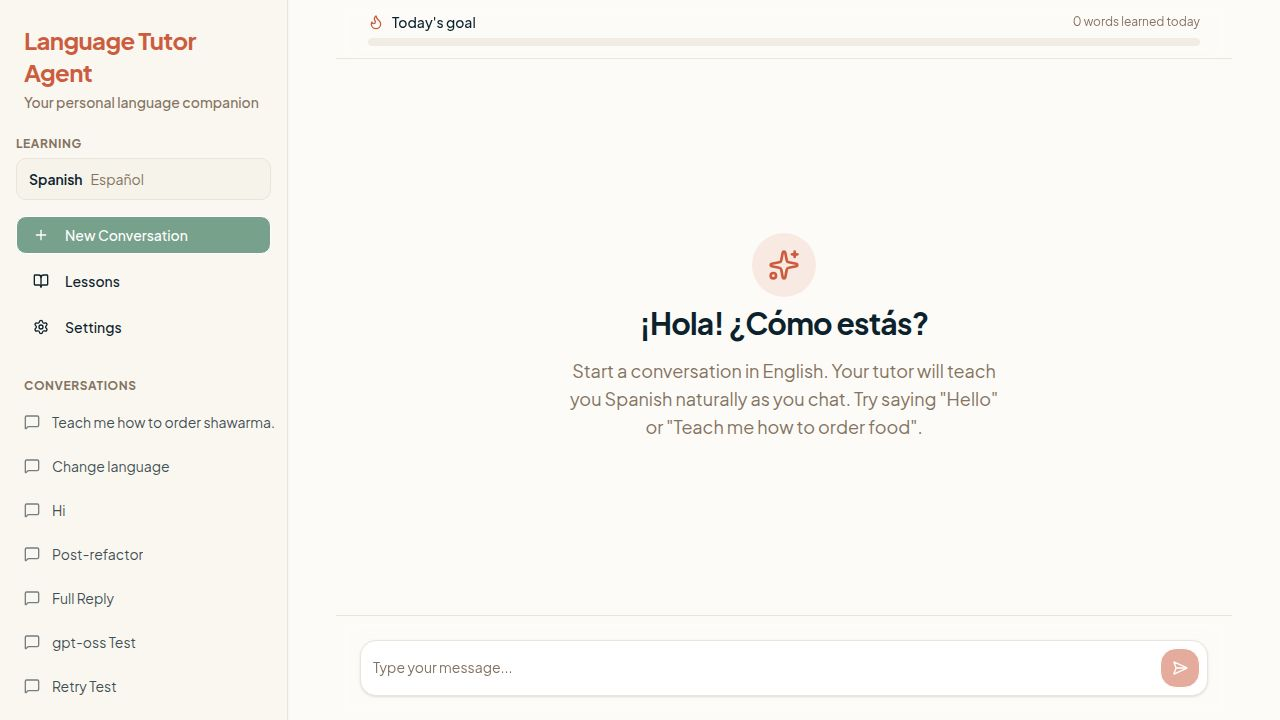
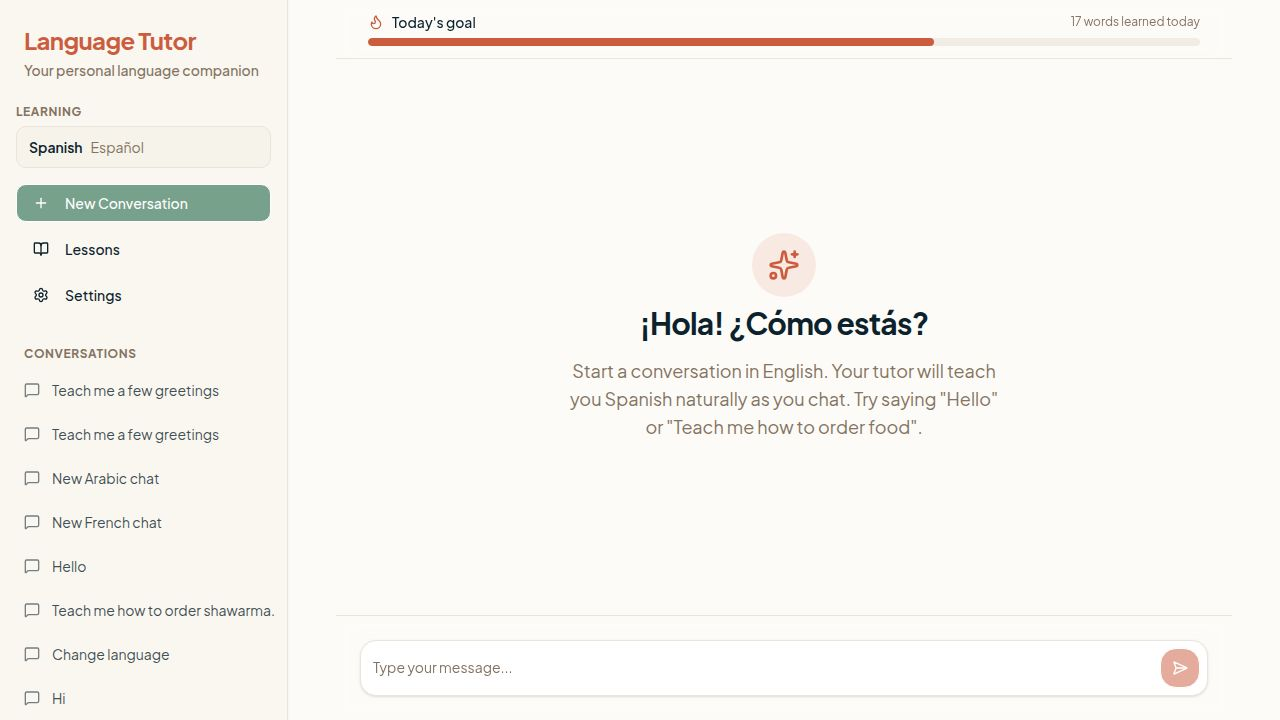
Update app name and URL references across the project
Rename application title, meta tags, and UI elements from "Urdu Tutor" to "Language Tutor" in artifact.toml, index.html, layout.tsx, and replit.md.

Replit-Commit-Author: Agent
Replit-Commit-Session-Id: 77ddfd61-c306-43f4-94e4-d4ff998fbddb
Replit-Commit-Checkpoint-Type: full_checkpoint
Replit-Commit-Event-Id: 2d756583-c9e9-4c67-b626-569c6c22d418
Replit-Commit-Screenshot-Url: https://storage.googleapis.com/screenshot-production-us-central1/04a81329-d898-4ca5-8f48-eb72ab0baa68/77ddfd61-c306-43f4-94e4-d4ff998fbddb/6BOIMsd
Replit-Helium-Checkpoint-Created: true

diff --git a/artifacts/tutor/index.html b/artifacts/tutor/index.html
@@ -3,15 +3,15 @@
   <head>
     <meta charset="UTF-8" />
     <meta name="viewport" content="width=device-width, initial-scale=1.0, maximum-scale=1" />
-    <title>Language Tutor Agent</title>
-    <meta name="description" content="Language Tutor Agent — an AI tutor that teaches you a new language through bilingual chat." />
+    <title>Language Tutor</title>
+    <meta name="description" content="Language Tutor — an AI tutor that teaches you a new language through bilingual chat." />
     <meta name="robots" content="index, follow" />
-    <meta property="og:title" content="Language Tutor Agent" />
-    <meta property="og:description" content="Language Tutor Agent — an AI tutor that teaches you a new language through bilingual chat." />
+    <meta property="og:title" content="Language Tutor" />
+    <meta property="og:description" content="Language Tutor — an AI tutor that teaches you a new language through bilingual chat." />
     <meta property="og:type" content="website" />
     <meta name="twitter:card" content="summary_large_image" />
-    <meta name="twitter:title" content="Language Tutor Agent" />
-    <meta name="twitter:description" content="Language Tutor Agent — an AI tutor that teaches you a new language through bilingual chat." />
+    <meta name="twitter:title" content="Language Tutor" />
+    <meta name="twitter:description" content="Language Tutor — an AI tutor that teaches you a new language through bilingual chat." />
     <link rel="icon" type="image/svg+xml" href="/favicon.svg" />
     <link rel="preconnect" href="https://fonts.googleapis.com">
     <link rel="preconnect" href="https://fonts.gstatic.com" crossorigin>

diff --git a/artifacts/tutor/src/components/layout.tsx b/artifacts/tutor/src/components/layout.tsx
@@ -54,7 +54,7 @@ export function AppLayout({ children }: { children: React.ReactNode }) {
   const SidebarContent = () => (
     <div className="flex h-full flex-col bg-sidebar text-sidebar-foreground border-r border-sidebar-border w-64 md:w-72 shadow-sm">
       <div className="p-4 sm:p-6 pb-4">
-        <h1 className="text-2xl font-bold text-primary tracking-tight">Language Tutor Agent</h1>
+        <h1 className="text-2xl font-bold text-primary tracking-tight">Language Tutor</h1>
         <p className="text-sm text-muted-foreground mt-1 font-medium">Your personal language companion</p>
       </div>
 
@@ -160,7 +160,7 @@ export function AppLayout({ children }: { children: React.ReactNode }) {
             <SidebarContent />
           </SheetContent>
         </Sheet>
-        <div className="ml-2 font-bold text-lg text-primary">Language Tutor Agent</div>
+        <div className="ml-2 font-bold text-lg text-primary">Language Tutor</div>
       </div>
 
       {/* Desktop Sidebar */}

diff --git a/replit.md b/replit.md
@@ -1,6 +1,6 @@
-# Language Tutor Agent
+# Language Tutor
 
-An AI-powered language tutor web app: a chat interface where an LLM teaches a target language to English speakers, mixing both languages so learners pick up the right words in context. Supports 10 languages (Spanish, French, German, Italian, Portuguese, Mandarin Chinese, Japanese, Hindi, Arabic, Urdu). Includes browsable beginner lessons (greetings, numbers, common phrases) with native script, transliteration, and English meaning. The app name "Language Tutor Agent" is fixed (it does not track the active language) and is shown in the sidebar/header, the browser tab title, and the social/meta tags.
+An AI-powered language tutor web app: a chat interface where an LLM teaches a target language to English speakers, mixing both languages so learners pick up the right words in context. Supports 10 languages (Spanish, French, German, Italian, Portuguese, Mandarin Chinese, Japanese, Hindi, Arabic, Urdu). Includes browsable beginner lessons (greetings, numbers, common phrases) with native script, transliteration, and English meaning. The app name "Language Tutor" is fixed (it does not track the active language) and is shown in the sidebar/header, the browser tab title, and the social/meta tags.
 
 ## Run & Operate
 
